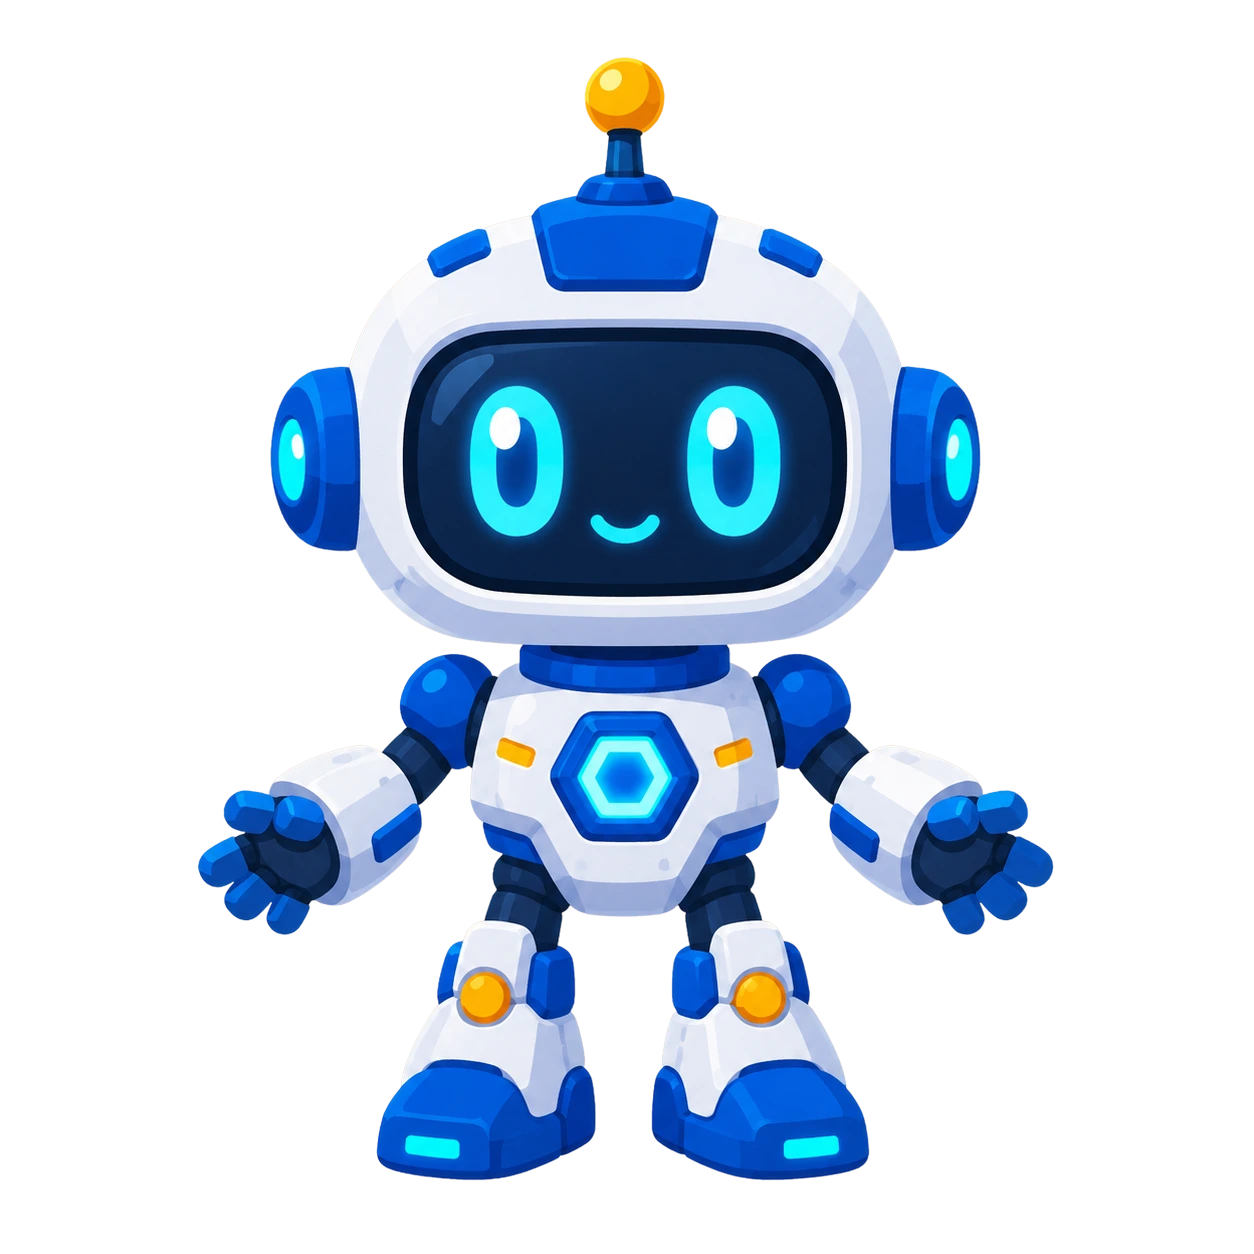
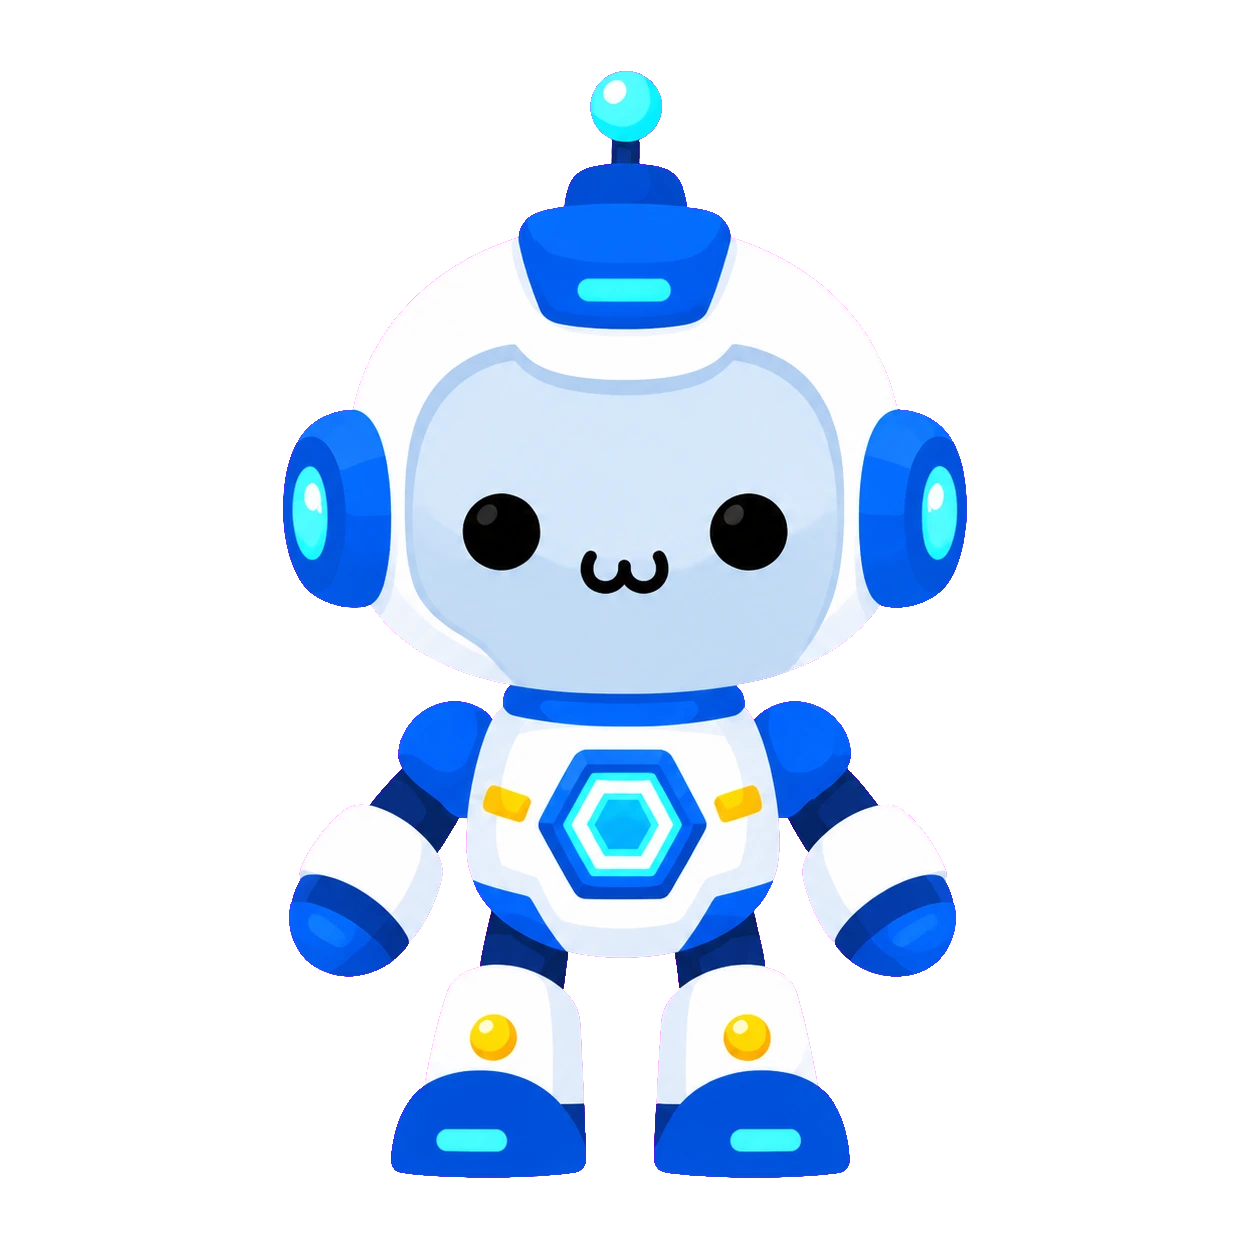
초3-1 대표 캐릭터를 2등신 확정본으로 교체
GPT가 만든 A행성(로봇 도시) 캐릭터를 수학·과학 초3-1에 넣었다. 사용자가 이 정도면
그냥 쓴다고 판단한 안이라 그대로 확정. 원본과 누끼 PNG는 _source 에 보관했다.
107KB → 65KB (2등신이라 그림이 단순해졌다).

캐릭터 파일 URL에 ?v= 를 붙였다(CHAR_V). 앞으로 16학기분을 계속 교체하는데
파일명이 그대로여서, 브라우저가 옛 그림을 계속 쓰는 문제가 실제로 났다.
교체할 때 이 숫자를 올린다.

실제 화면에서 확인한 것: 미완료 오브젝트가 홀로그램(무채색)이라 컬러 캐릭터는
저절로 튄다. tools/char-on-bg.py 는 오브젝트를 전부 실물로 깔므로 최악 조건이다 —
그 기준으로 「경계」가 나와도 실제 화면에서는 충분할 수 있다.

Changed region(s): [[0.1555, 0.0311, 0.8397, 0.9641]]

diff --git a/nav/home.html b/nav/home.html
@@ -259,7 +259,9 @@
         'sci-mid-3-1'  :'<b>(1) 화학 반응의 규칙</b>의 <b>유형 훈련</b>을 시작해보세요!',
         'sci-mid-3-2'  :'<b>(1) 역학적 에너지</b>의 <b>개념 훈련</b>을 시작해보세요!'
       };
-      /* 캐릭터 원본이 있는 학기 — 나머지는 말풍선만 세운다 */
+      /* 캐릭터 원본이 있는 학기 — 나머지는 말풍선만 세운다.
+         학기당 한 명이고 수학·과학이 같은 그림이라 키가 항상 두 개씩 늘어난다.
+         2등신 확정본: elem-3-1. 나머지(mid-3-1·mid-3-2)는 옛 3등신이라 교체 대상. */
       var HAS_CHAR = { 'math-elem-3-1':1, 'math-mid-3-1':1, 'math-mid-3-2':1,
                        'sci-elem-3-1':1, 'sci-mid-3-1':1, 'sci-mid-3-2':1 };
 
@@ -276,8 +278,11 @@
       safe.style.aspectRatio = cfg.ratio;
       stage.style.backgroundImage = 'url("' + dir + '/bg.webp")';
 
+      /* 캐릭터 파일은 앞으로 학기별로 계속 교체된다. 파일명이 그대로면 브라우저가
+         옛 그림을 계속 써서 「바꿨는데 안 바뀐다」가 된다 — 교체할 때 이 숫자를 올린다. */
+      var CHAR_V = 2;
       var hero = safe.querySelector('.hero');
-      if(HAS_CHAR[key]) document.getElementById('char').src = dir + '/character.webp';
+      if(HAS_CHAR[key]) document.getElementById('char').src = dir + '/character.webp?v=' + CHAR_V;
       else hero.classList.add('is-nochar');
 
       var bub = document.getElementById('bubble');
